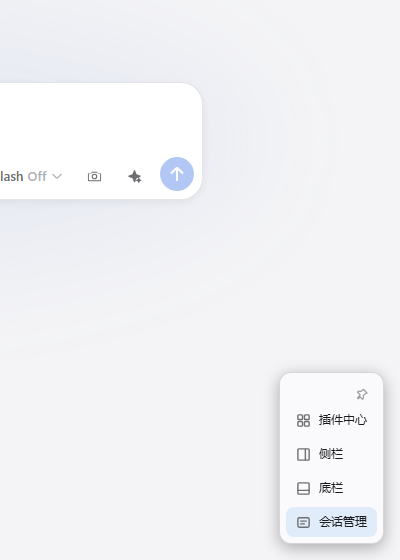
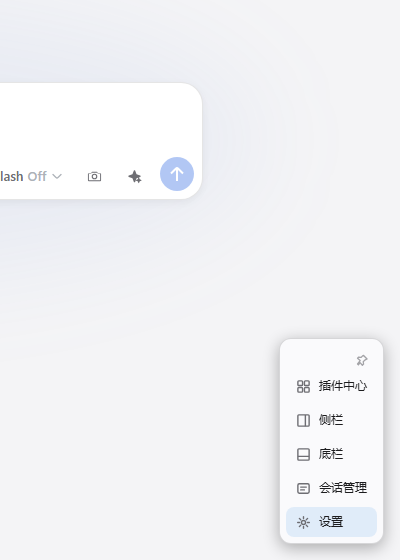
docs: 发布同步（v0.3.1 面）——README M1 行为/截图刷新/prompt 行为语义
- README 使用/架构节补 M1：设置内置入口（语义锚点/再点关闭）、壳开关、
  用户适配器流水线（adapters+state 双 host 路由）、状态 host 化说明
- 截图刷新：web-panel 5 按钮（含设置）+ 收起球（v0.3.1 构建）
- adapters.prompt.md：open-settings/command 行为语义（已实现——非未实现占位）

diff --git a/README.md b/README.md
@@ -25,17 +25,20 @@ dsh plugin --profile web add @max-null/dsh-quick-toolbar
 
 ## 使用
 
-- **聚合按钮**：标题栏/悬浮球点开面板 → 一键触发各插件功能（再点关闭——会话管理探测弹窗关闭按钮）。
-- **用户适配器**：复制 `adapters.prompt.md` + 环境描述 → 让 LLM 生成 `{ "adapters": [...] }` → 写入 `~/.dsh/quick-toolbar-adapters.json` → 重启/热载生效（schema 校验，非法条目丢弃并报明细）。
+- **聚合按钮**：标题栏/悬浮球点开面板 → 一键触发各插件功能（再点关闭——会话管理探测弹窗关闭按钮；设置面板语义锚点打开/再点关闭）。
+- **内置入口**：悬浮球含「设置」（官方设置面板：引擎按语义锚点定位 footer 触发器，双 locale；再点关闭——DSH trigger 原生只开不关）。
+- **壳环境（SSiD）**：悬浮球默认隐藏（标题栏接管入口）；标题栏「悬浮球」开关按钮（圆圈+圆点图标）可开启。
+- **用户适配器**：复制 `adapters.prompt.md` + 环境描述 → 让 LLM 生成 `{ "adapters": [...] }` → 写入 `~/.dsh/quick-toolbar-adapters.json` → 刷新页面生效（host API 校验，非法条目丢弃并报明细）。
 - 定位失败/插件未装/被禁用 → 静默跳过（绝不误伤、绝不误点）。
+- **状态持久化**：位置/钉住/折叠/壳开关走 host（`/quick-toolbar/api/state` → `~/.dsh/quick-toolbar-state.json`，SSiD 开发手册 §7.10 规则）——内核动态端口不再丢状态。
 
 ## 架构
 
 - `src/adapters.ts`：适配器 schema + 内置适配器集（黄金示例）
-- `src/behaviors.ts`：行为库（click / toggle-panel / dispatch-event / open-settings / command）
+- `src/behaviors.ts`：行为库（click / toggle-panel / dispatch-event / open-settings（语义锚点+再点关闭）/ command（composer 注入）——全部实现，v2 M1）
 - `src/engine.ts`：执行器（防御执行）
 - `src/schema.ts`：用户配置 zod 校验（LLM 产物防线）
-- `src/index.ts`：host 半 `GET /quick-toolbar/api/adapters`
+- `src/index.ts`（host 半）：`GET /quick-toolbar/api/adapters`（用户适配器）+ `GET/POST /quick-toolbar/api/state`（状态 host 化，原子写）
 - 设计文档：`doc/设计/2026-08-30-quick-toolbar-独立化设计方案.md`、`doc/设计/2026-08-30-quick-toolbar-v2设计.md`
 
 ## 开发
